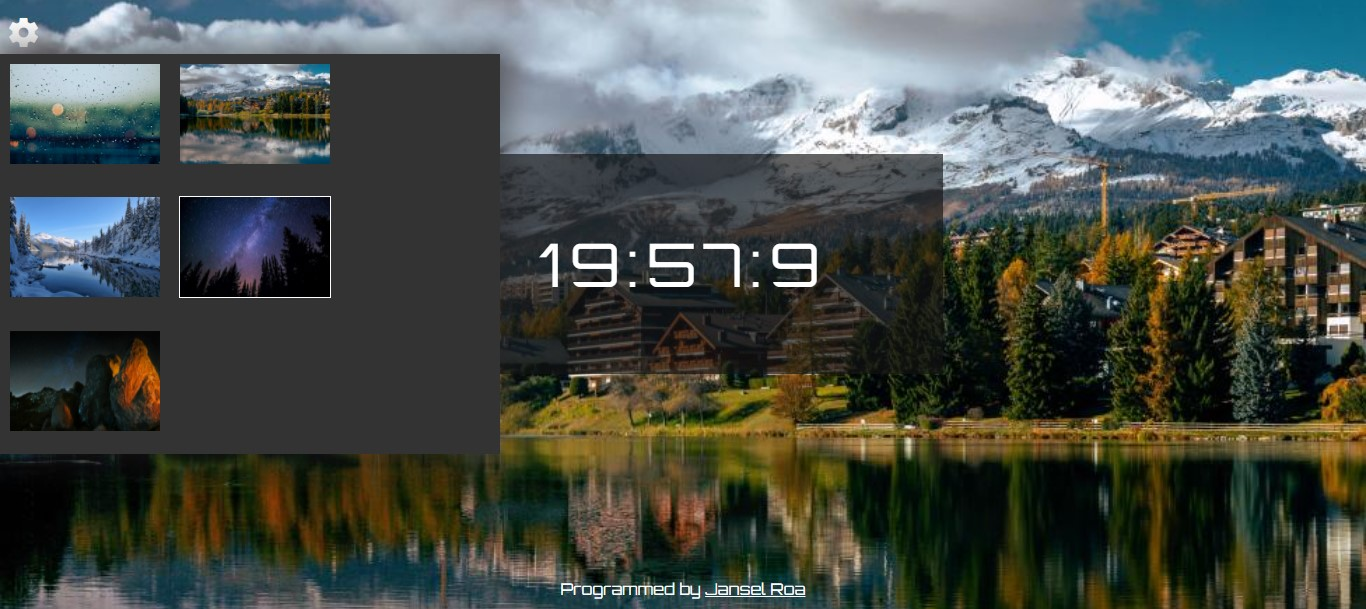
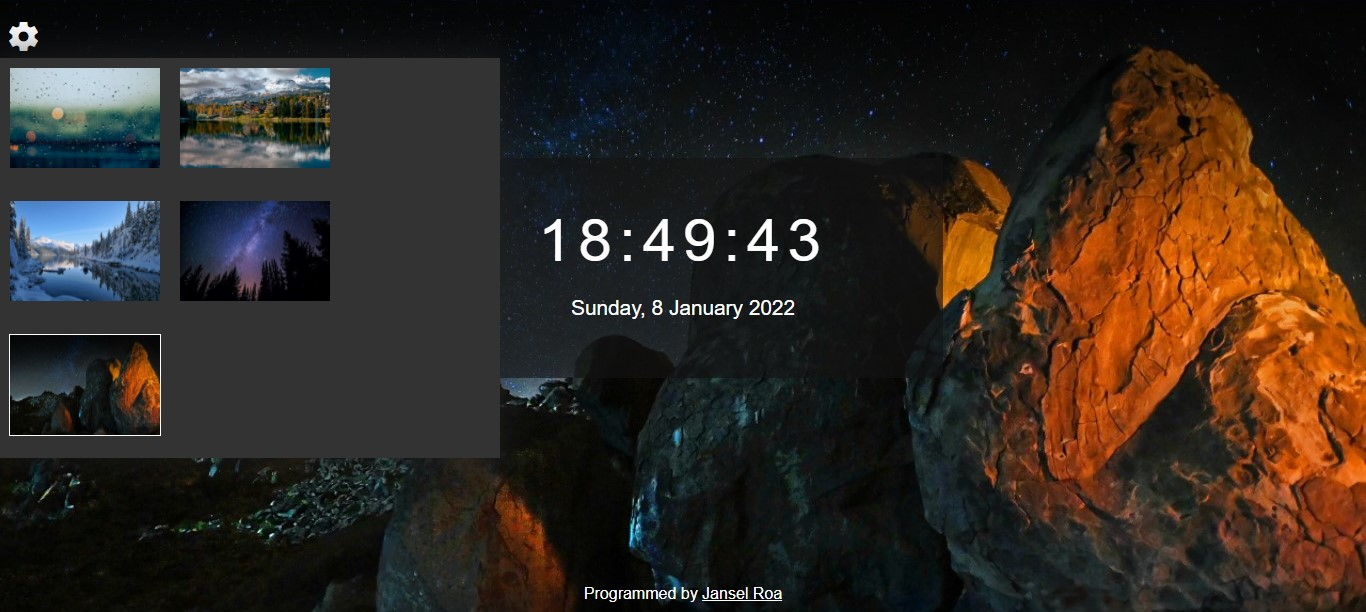
first commit

diff --git a/index.js b/index.js
@@ -1,6 +1,11 @@
 const btn = document.querySelector("button");
 const settings = document.querySelector(".settings-window")
 const p = document.querySelector("p");
+const p2 = document.querySelector(".date");
+if (localStorage.getItem("background") != null) {
+    document.body.style.backgroundImage = localStorage.getItem("background")
+}
+
 btn.addEventListener("click", () => {
     settings.classList.toggle("settings-show")
 })
@@ -8,10 +13,22 @@ settings.addEventListener("click", (e) => {
     if (e.target != settings) {
         const img = e.target.getAttribute("src");
         document.body.style.backgroundImage = `url("${img}")`
-
+        localStorage.setItem("background", `url("${img}")`)
     }
 })
+
+const daysWeek = [
+    "Monday",
+    "Tuesday",
+    "Wednesday",
+    "Thursday",
+    "Friday",
+    "Saturday",
+    "Sunday"
+]
+const Months = ["January", "February", "March", "April", "May", "June", "July", "August", "September", "October", "November", "December"]
 setInterval(() => {
     let date = new Date()
     p.textContent = `${date.getHours()}:${date.getMinutes()}:${date.getSeconds()}`
+    p2.textContent = `${daysWeek[date.getDay()]}, ${date.getDate()} ${Months[date.getMonth()]} ${date.getFullYear()}`
 }, 300)

diff --git a/styles.css b/styles.css
@@ -1,7 +1,6 @@
-@import url('https://fonts.googleapis.com/css2?family=Orbitron&display=swap');
 body {
     color: #fff;
-    font-family: Orbitron;
+    font-family: Arial, Helvetica, sans-serif;
     height: 100vh;
     background: no-repeat url("./img/snow.jpg");
     background-size: cover;
@@ -24,6 +23,7 @@ body {
     font-size: 60px;
     text-shadow: 5px 5px 10px var(--text-color);
     letter-spacing: 7px;
+    margin: 10px;
 }
 
 span.material-icons {
@@ -79,4 +79,9 @@ footer a {
 span:hover {
     transform: scale(1.1);
     text-shadow: 2px 2px 30px #222;
+}
+
+.date {
+    font-size: 1.3rem;
+    text-align: center;
 }

diff --git a/index.html b/index.html
@@ -25,7 +25,10 @@
     </div>
 
     <div class="clock">
-        <p class="hours"></p>
+        <div>
+            <p class="hours"></p>
+            <p class="date"></p>
+        </div>
     </div>
     <script src="./index.js"></script>
     <footer>
